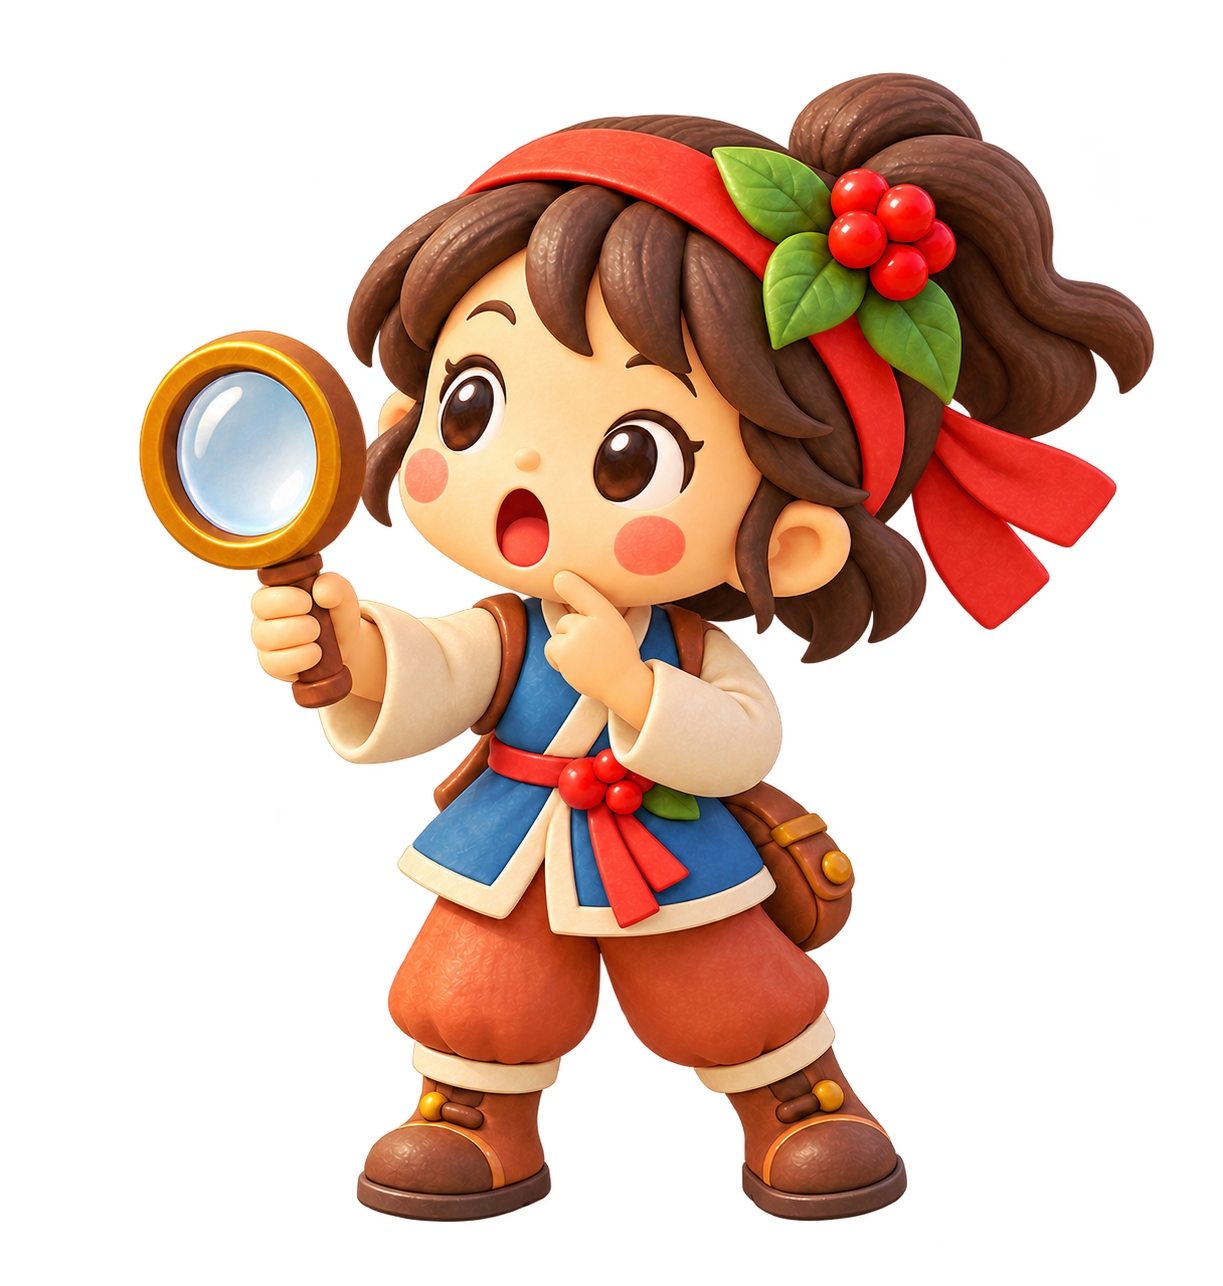
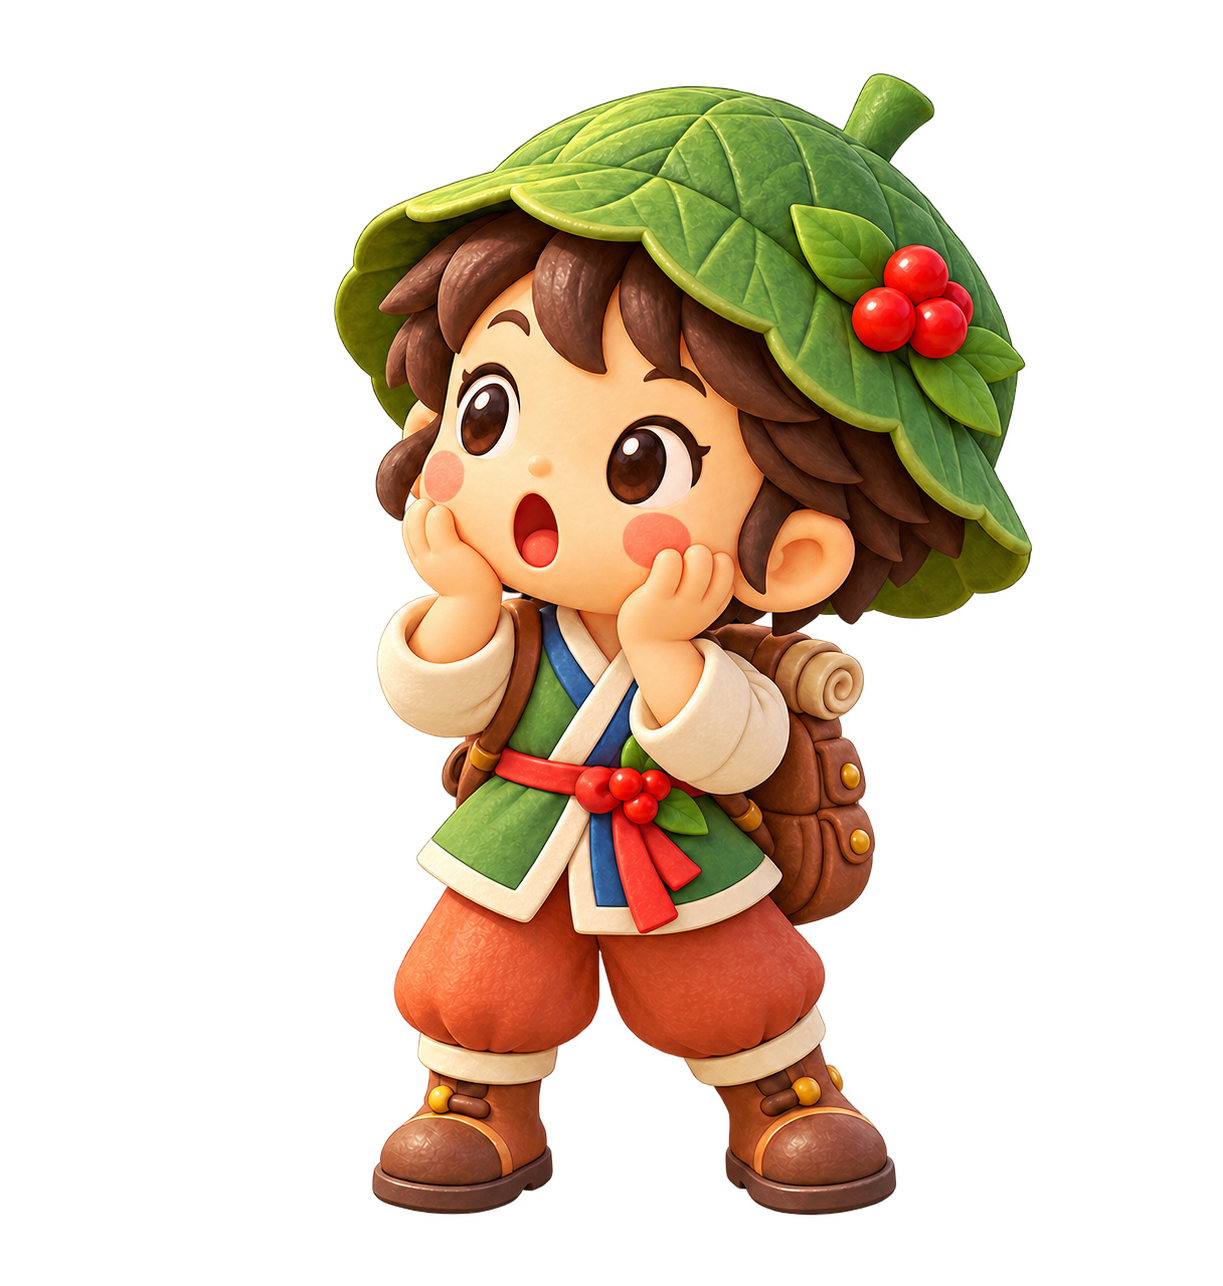
다시 만든 그림 반영: 산이 표정 4장, 가득 찬 하트 (그림 47장 완료)

diff --git a/PROMPTS.md b/PROMPTS.md
@@ -3,9 +3,9 @@
 > 각 프롬프트는 공통 스타일 문장까지 들어 있는 완성본입니다. 코드 블록 오른쪽 위의 복사 버튼(GitHub·Obsidian·VS Code 미리보기)으로 복사해 ChatGPT에 그대로 붙여 넣으세요.
 > 저장 위치: `public/regions/geumsan/art/` · 파일 이름을 그대로 쓰면 게임에 바로 들어갑니다.
 
-현재 상태: 그림 47장 중 **42장 완료**, 5장 다시 만들기, 0장 필요 (✅ 완료 · ⚠ 다시 만들기 · ⬜ 필요)
+현재 상태: 그림 47장 중 **47장 완료** (✅ 완료 · ⚠ 다시 만들기 · ⬜ 필요)
 
-2026-10-28 확인: `board.json`이 참조하는 그림 파일은 모두 있습니다. 다만 ⚠ 5장은 내용이 잘못되어 다시 만들어야 합니다 → [`GPT_다시만들기.md`](GPT_다시만들기.md)
+2026-10-28 확인: 47장 모두 게임 화면에서 확인했습니다. 다시 만든 5장(산이 표정 4, 가득 찬 하트)도 반영했습니다.
 
 ## 목차
 
@@ -41,10 +41,10 @@
 | ✅ | `char-geumi-sad.png` | 금이 오답 |
 | ✅ | `char-geumi-surprised.png` | 금이 시간 초과 |
 | ✅ | `char-sani-normal.png` | 산이 기본 |
-| ⚠ | `char-sani-think.png` | 산이 생각 (금이 그림으로 잘못 나옴 · 다시 만들기) |
-| ⚠ | `char-sani-happy.png` | 산이 정답 (금이 그림으로 잘못 나옴 · 다시 만들기) |
-| ⚠ | `char-sani-sad.png` | 산이 오답 (금이 그림으로 잘못 나옴 · 다시 만들기) |
-| ⚠ | `char-sani-surprised.png` | 산이 시간 초과 (금이 그림으로 잘못 나옴 · 다시 만들기) |
+| ✅ | `char-sani-think.png` | 산이 생각 |
+| ✅ | `char-sani-happy.png` | 산이 정답 |
+| ✅ | `char-sani-sad.png` | 산이 오답 |
+| ✅ | `char-sani-surprised.png` | 산이 시간 초과 |
 | ✅ | `piece-ginseng.png` | 인삼 요정 |
 | ✅ | `piece-perilla.png` | 깻잎 |
 | ✅ | `piece-fish.png` | 금강 피라미 |
@@ -61,7 +61,7 @@
 | ✅ | `mg-block.png` | 위성 신호: 산 장애물 |
 | ✅ | `ui-title-bg.png` | 첫 화면 배경 |
 | ✅ | `ui-bus.png` | 금산 버스 아이콘 |
-| ⚠ | `ui-heart.png` | 하트 (가득) (빈 하트와 모양이 다름 · 다시 만들기) |
+| ✅ | `ui-heart.png` | 하트 (가득) |
 | ✅ | `ui-heart-empty.png` | 하트 (빈칸) |
 | ✅ | `ui-score.png` | 점수 아이콘 |
 | ✅ | `ui-hint.png` | 힌트 아이콘 |
@@ -411,8 +411,6 @@ No text, no letters, no numbers, no signs with writing, no logos, no watermark.
 
 ## 3. 안내 캐릭터 — 금이 · 산이
 
-> ⚠ 산이 표정 4장(think·happy·sad·surprised)이 금이 그림으로 나왔습니다. **char-sani-normal.png(깻잎 모자 남자아이)를 첨부**하고, 프롬프트 맨 앞에 "The boy with the green perilla-leaf bucket hat, NOT the girl." 을 붙여 다시 만들어 주세요.
-
 먼저 **기본(normal)**을 만든 뒤, 표정 그림은 **그 캐릭터의 기본 그림을 첨부**해서 요청합니다. 포즈와 옷이 바뀌면 "keep exactly the same pose and outfit"을 덧붙여 다시 요청하세요.
 
 ### ✅ 금이 기본 — `char-geumi-normal.png`
@@ -541,7 +539,7 @@ Clean, bright, friendly, for elementary school children.
 No text, no letters, no numbers, no signs with writing, no logos, no watermark.
 ```
 
-### ⚠ 산이 생각 — `char-sani-think.png`
+### ✅ 산이 생각 — `char-sani-think.png`
 
 1024×1024 · 투명 배경 · 📎 `char-sani-normal.png` 첨부
 
@@ -562,7 +560,7 @@ Clean, bright, friendly, for elementary school children.
 No text, no letters, no numbers, no signs with writing, no logos, no watermark.
 ```
 
-### ⚠ 산이 정답 — `char-sani-happy.png`
+### ✅ 산이 정답 — `char-sani-happy.png`
 
 1024×1024 · 투명 배경 · 📎 `char-sani-normal.png` 첨부
 
@@ -583,7 +581,7 @@ Clean, bright, friendly, for elementary school children.
 No text, no letters, no numbers, no signs with writing, no logos, no watermark.
 ```
 
-### ⚠ 산이 오답 — `char-sani-sad.png`
+### ✅ 산이 오답 — `char-sani-sad.png`
 
 1024×1024 · 투명 배경 · 📎 `char-sani-normal.png` 첨부
 
@@ -604,7 +602,7 @@ Clean, bright, friendly, for elementary school children.
 No text, no letters, no numbers, no signs with writing, no logos, no watermark.
 ```
 
-### ⚠ 산이 시간 초과 — `char-sani-surprised.png`
+### ✅ 산이 시간 초과 — `char-sani-surprised.png`
 
 1024×1024 · 투명 배경 · 📎 `char-sani-normal.png` 첨부
 
@@ -985,7 +983,7 @@ Clean, bright, friendly, for elementary school children.
 No text, no letters, no numbers, no signs with writing, no logos, no watermark.
 ```
 
-### ⚠ 하트 (가득) — `ui-heart.png`
+### ✅ 하트 (가득) — `ui-heart.png`
 
 512×512 · 투명 배경 · 📎 `style-anchor.png` 첨부
 

diff --git a/GPT_다시만들기.md b/GPT_다시만들기.md
@@ -1,5 +1,7 @@
 # ChatGPT에 보낼 프롬프트 — 다시 만들 그림 5장
 
+> ✅ 완료 (2026-10-28): 아래 5장을 다시 만들어 게임에 반영했습니다. 이 파일은 기록용으로 남겨 둡니다.
+
 > 2026-10-28 점검 결과 다시 만들어야 하는 그림만 모았습니다. 나머지 42장은 그대로 써도 됩니다.
 > 각 코드 블록을 통째로 복사해 붙여 넣으세요. 저장 위치는 `public/regions/geumsan/art/`, 파일 이름은 제목에 적힌 그대로입니다.
 
